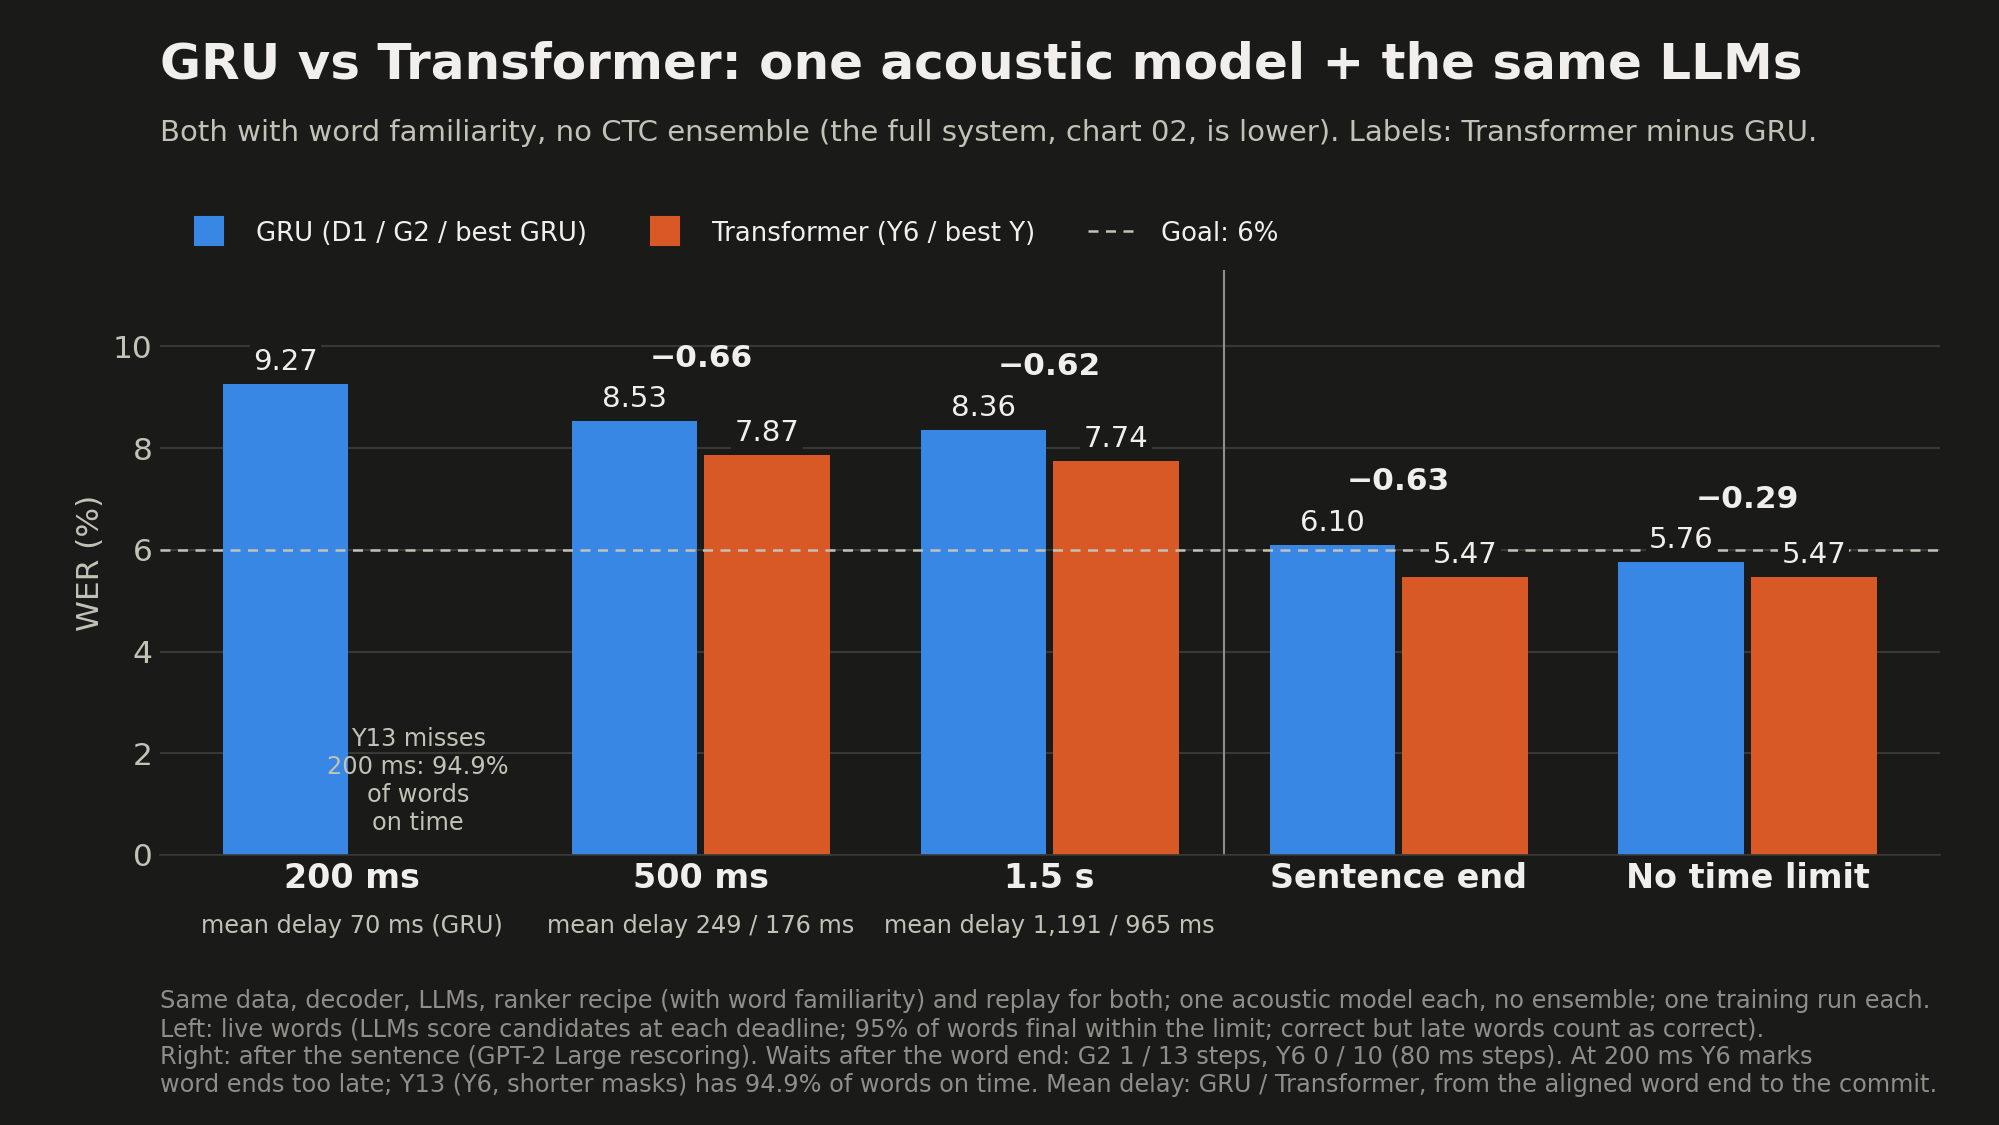
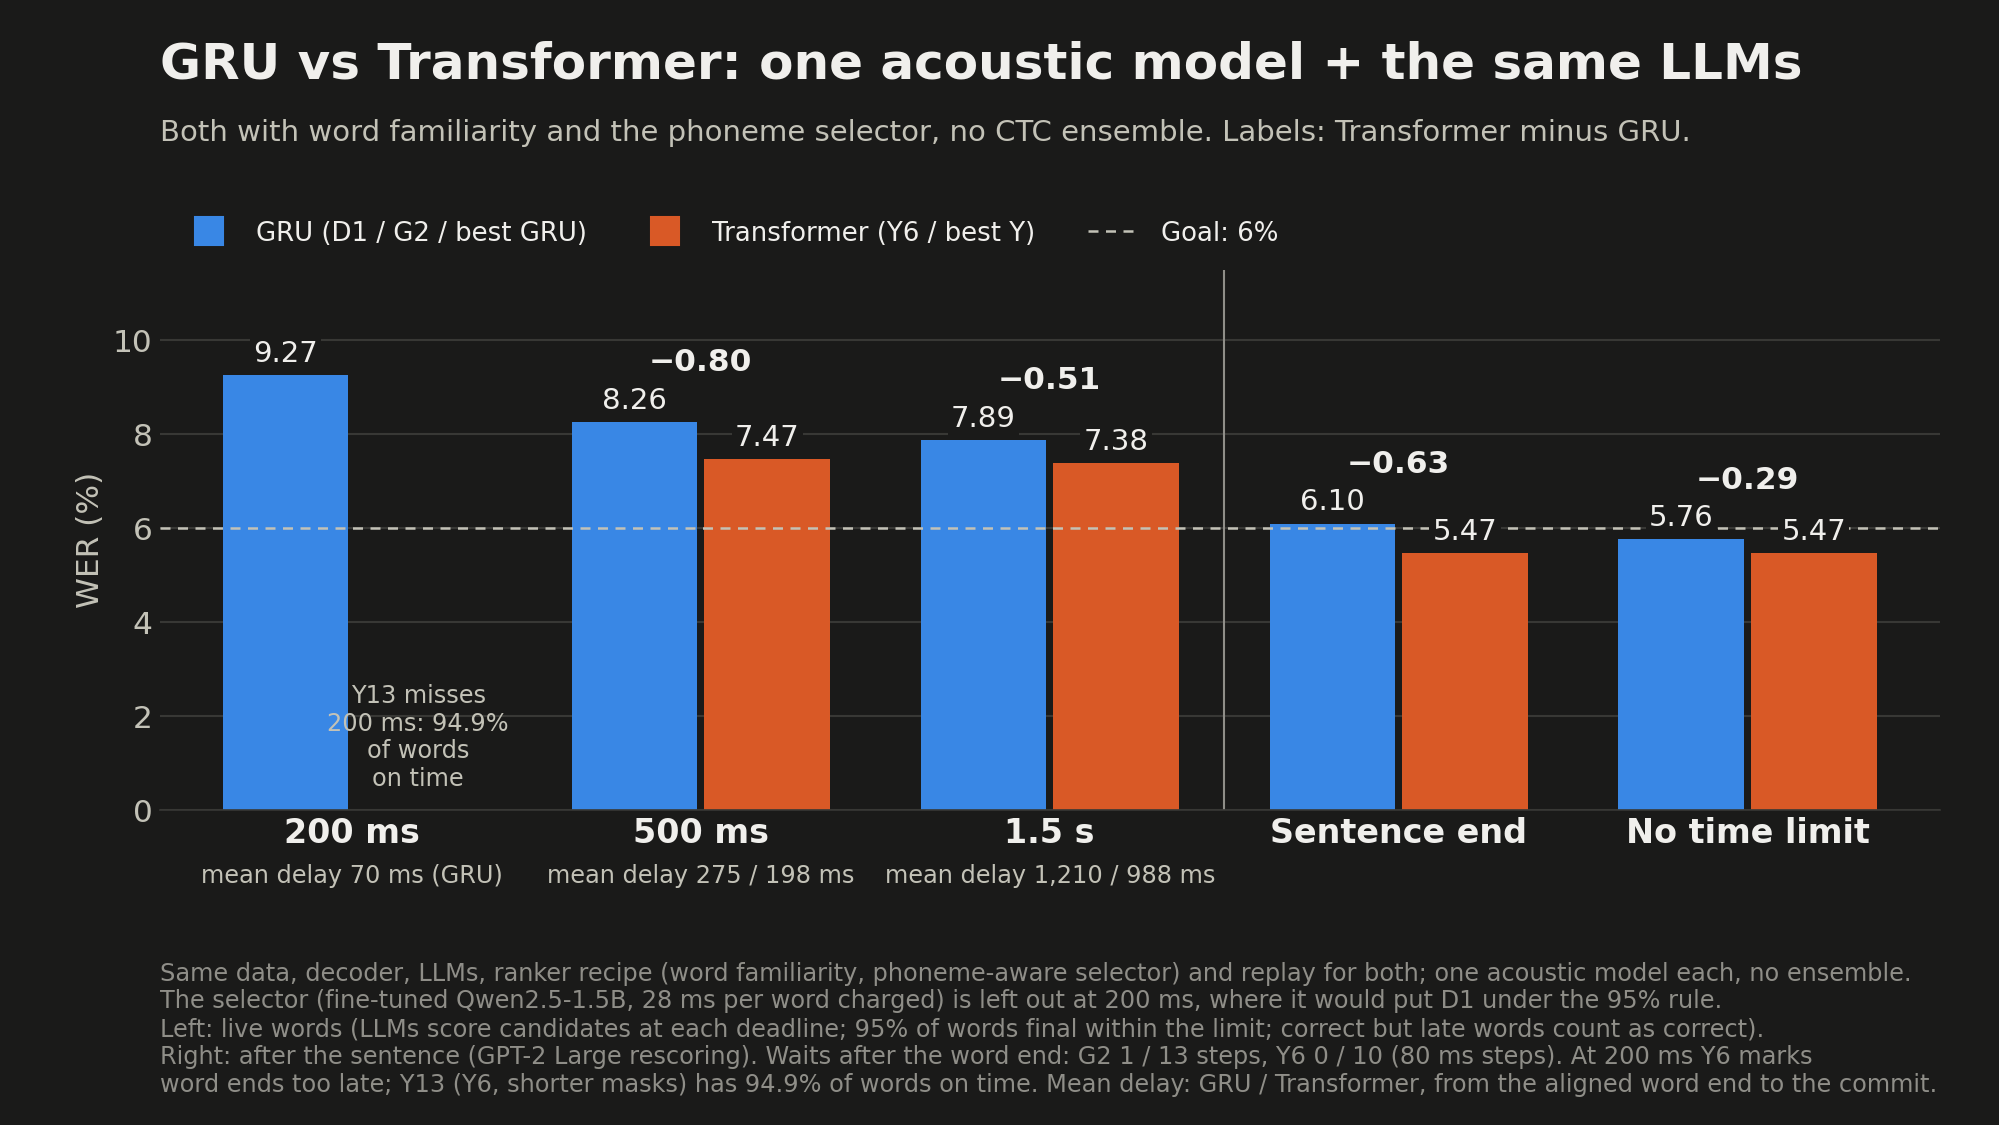
One-model rows with the phoneme-aware selector (Y6 7.47 / 7.38, G2 8.26 / 7.89); at 200 ms it breaks the 95% rule, so left out there

diff --git a/README.md b/README.md
@@ -19,8 +19,8 @@ shown within 200 ms, 500 ms or 1.5 s of the moment the participant finished atte
 | Time limit after the word ends | One model | Full system | Mean delay | Deciding model |
 |---|---|---|---|---|
 | 200 ms | 9.27% | 8.64% | 69 ms | GRU D1 (causal) |
-| 500 ms | 7.87% | 6.58% | 197 ms | Transformer Y6 |
-| 1.5 s | 7.74% | 6.29% | 987 ms | Transformer Y6 |
+| 500 ms | 7.47% | 6.58% | 197 ms | Transformer Y6 |
+| 1.5 s | 7.38% | 6.29% | 987 ms | Transformer Y6 |
 | After the sentence (not the target) | 5.06% | 4.28% | - | Transformer Y6, its 100 best sentences rescored |
 
 A live result passes its time limit when 95% of words are final within it; a correct word that arrives late still
@@ -28,12 +28,13 @@ counts as correct, and the mean delay shows the typical wait. The deciding acous
 propose candidates for the next word, and at each word's deadline a learned ranker picks one. "One model" gives the
 ranker the deciding model's own scores, two language models (fine-tuned GPT-2 Large and OPT-2.7B) and how often each
 candidate word occurs in the training sentences (the language models and the decoder under-rate rare words, which
-hold two thirds of the errors). The "full system" adds the CTC scores of an ensemble of acoustic models (11 causal
-GRUs at 200 ms and 500 ms, and at 1.5 s 22 GRUs, 3 Transformers and Y6 with three extra CTC inputs) and, at 500 ms
-and 1.5 s, a phoneme-aware selector: Qwen2.5-1.5B fine-tuned (LoRA) to pick the word from the phonemes the acoustic
-model heard and the candidates' pronunciations. It was trained on the held-out decisions of five Y6 models, each
-trained without one fifth of the training sentences, so it learned from realistic mistakes; it lowers live WER by
-0.48 at 500 ms and 0.22 at 1.5 s, with its 28 ms per word charged. After the sentence, a learned rescorer combines GPT-2 Large with the
+hold two thirds of the errors), and a phoneme-aware selector: Qwen2.5-1.5B fine-tuned (LoRA) to pick the word from
+the phonemes the acoustic model heard and the candidates' pronunciations. It was trained on the held-out decisions of
+five Y6 models, each trained without one fifth of the training sentences, so it learned from realistic mistakes; with
+its 28 ms per word charged it lowers live WER by 0.36-0.48 at 500 ms and 0.22-0.36 at 1.5 s, but at 200 ms it would
+put more than 5% of words past the limit, so it is left out there. The "full system" adds the CTC scores of an
+ensemble of acoustic models (11 causal GRUs at 200 ms and 500 ms, and at 1.5 s 22 GRUs, 3 Transformers and Y6 with
+three extra CTC inputs). It runs only with the best model that meets each limit. After the sentence, a learned rescorer combines GPT-2 Large with the
 same inputs over Y6's 100 best sentences (GPT-2 Large alone: 5.47%). The exact sentence is in that list for 89% of
 sentences, and always picking the closest one would give 2.24%, so better choosing has room left.
 
@@ -70,7 +71,7 @@ A second track on the Makin lab's ECoG dataset is intended; access and integrati
 
 <picture>
   <source media="(prefers-color-scheme: dark)" srcset="docs/images/dark/03_gru_vs_transformer.png">
-  <img src="docs/images/light/03_gru_vs_transformer.png" alt="Bar chart of one GRU against one Transformer, each with the same language models and word familiarity: 500 ms 8.53% vs 7.87%, 1.5 s 8.36% vs 7.74%, sentence end 6.10% vs 5.47%, no time limit 5.76% vs 5.47%; at 200 ms only the GRU, 9.27%.">
+  <img src="docs/images/light/03_gru_vs_transformer.png" alt="Bar chart of one GRU against one Transformer, each with the same language models, word familiarity and phoneme-aware selector: 500 ms 8.26% vs 7.47%, 1.5 s 7.89% vs 7.38%, sentence end 6.10% vs 5.47%, no time limit 5.76% vs 5.47%; at 200 ms only the GRU, 9.27% (without the selector, which would make it late).">
 </picture>
 
 ## What this repository adds
